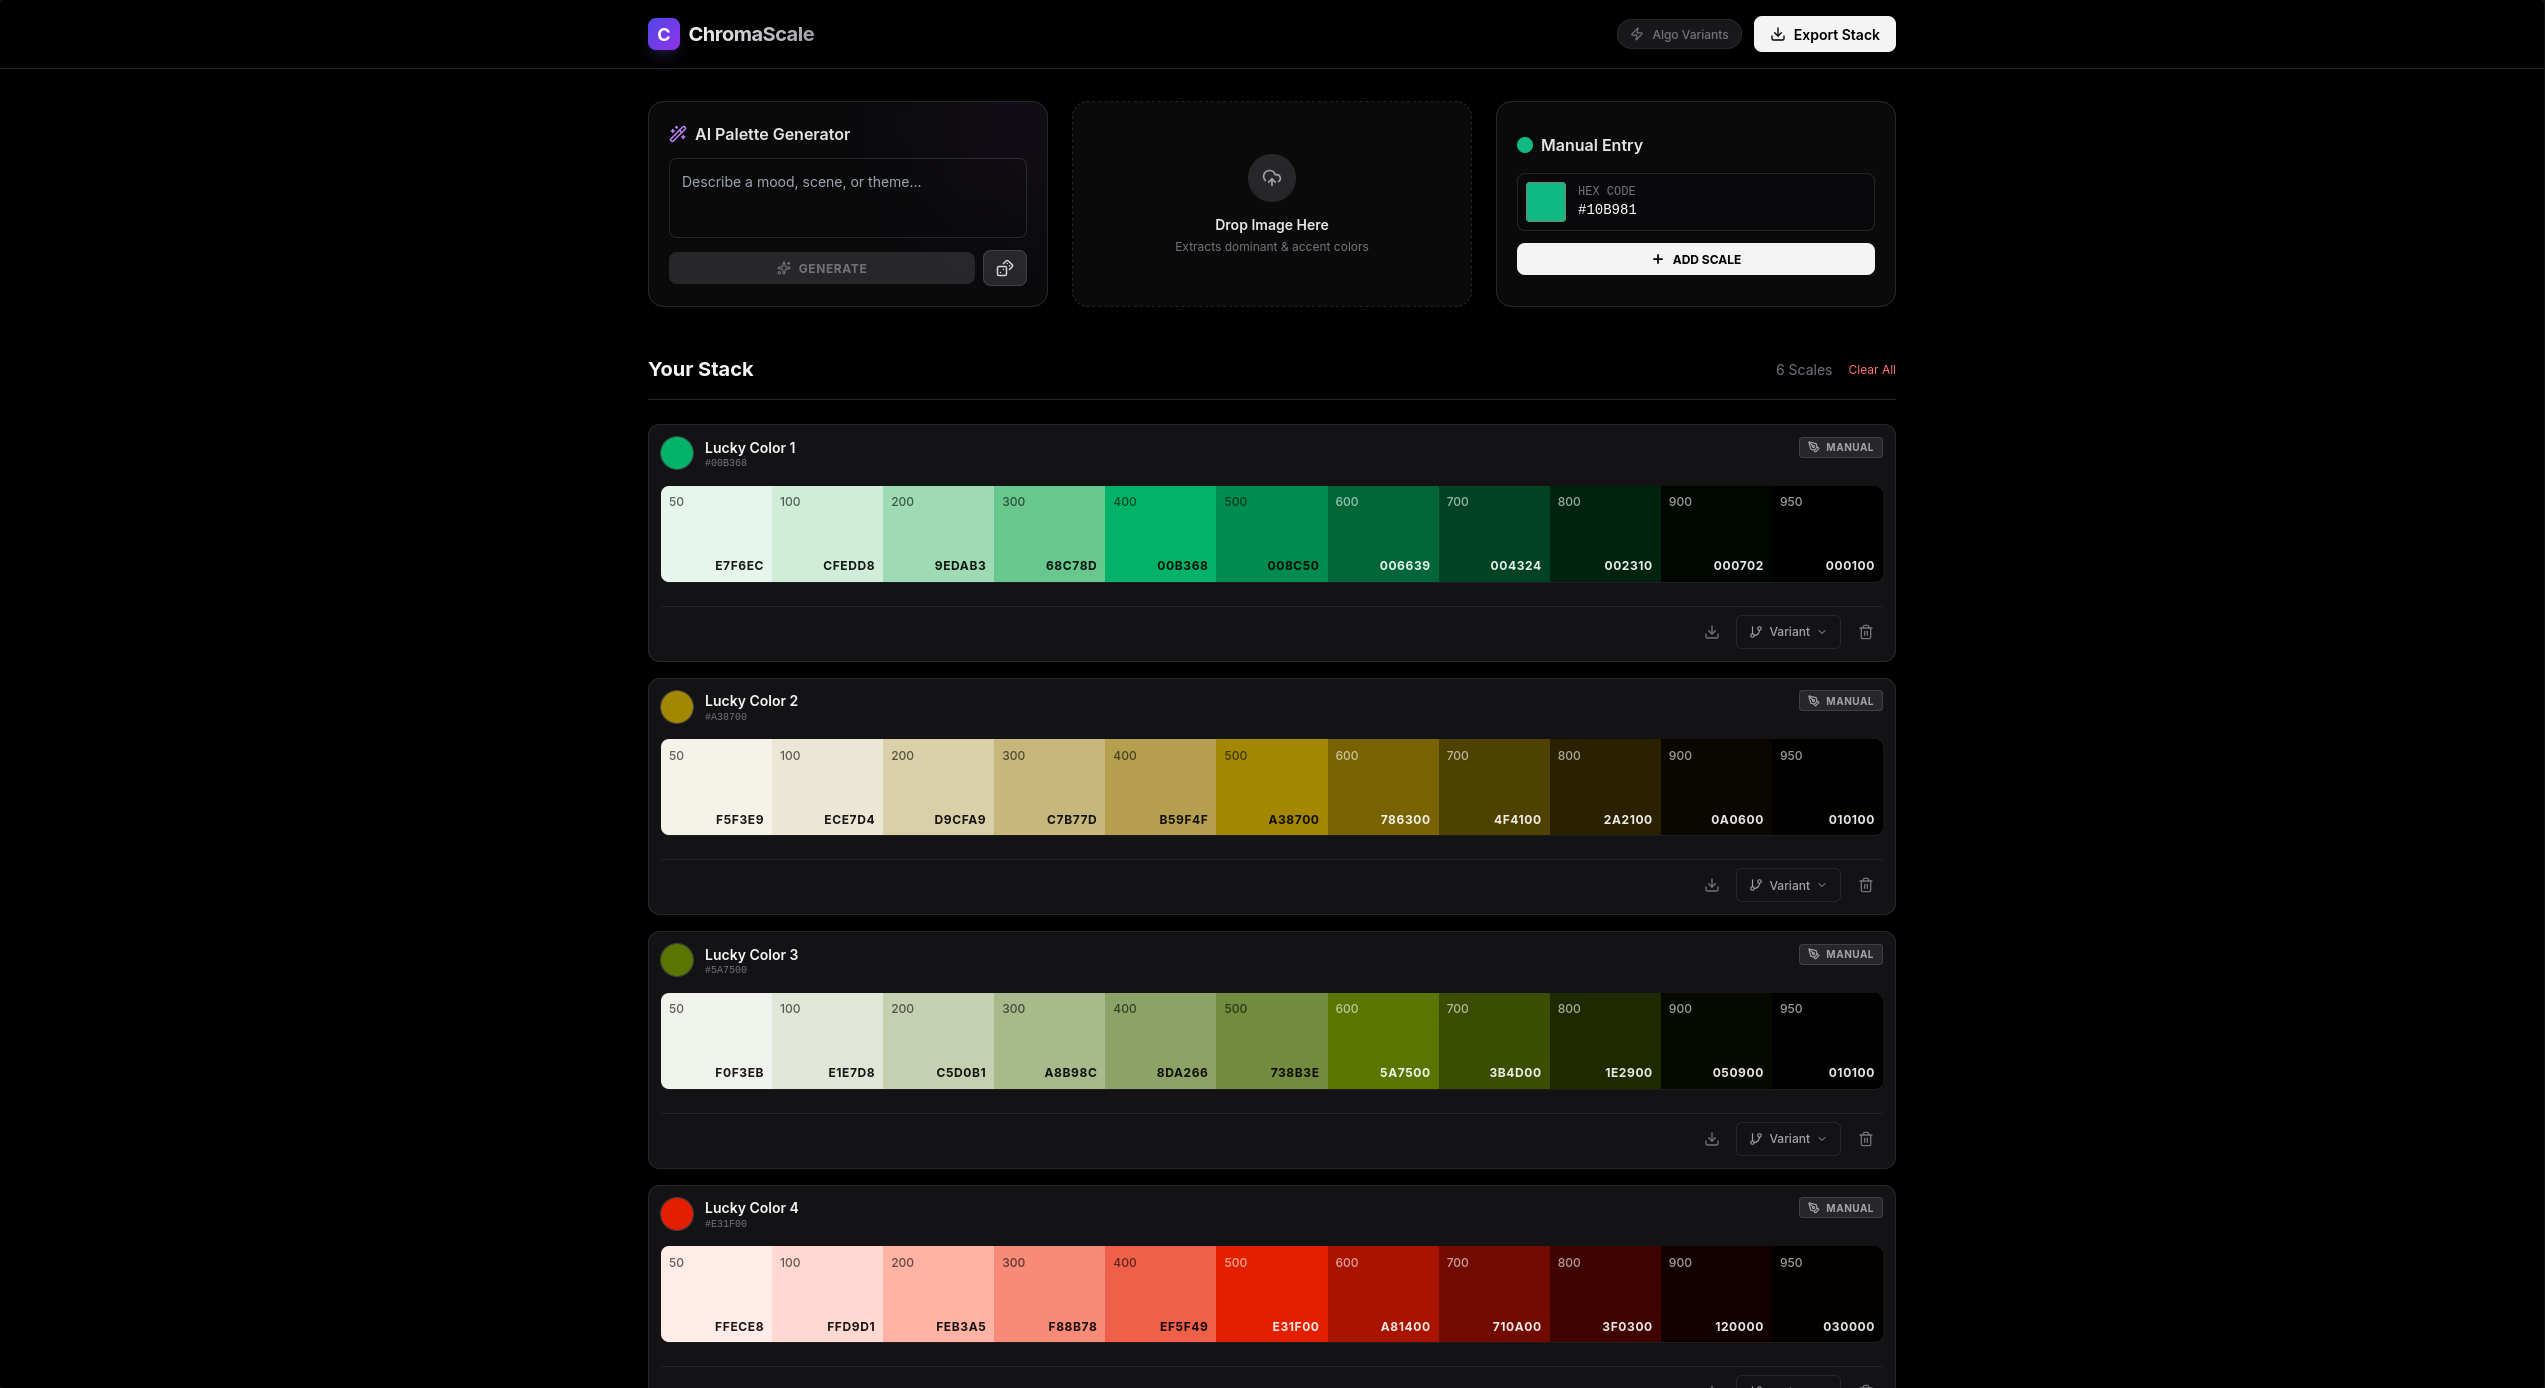
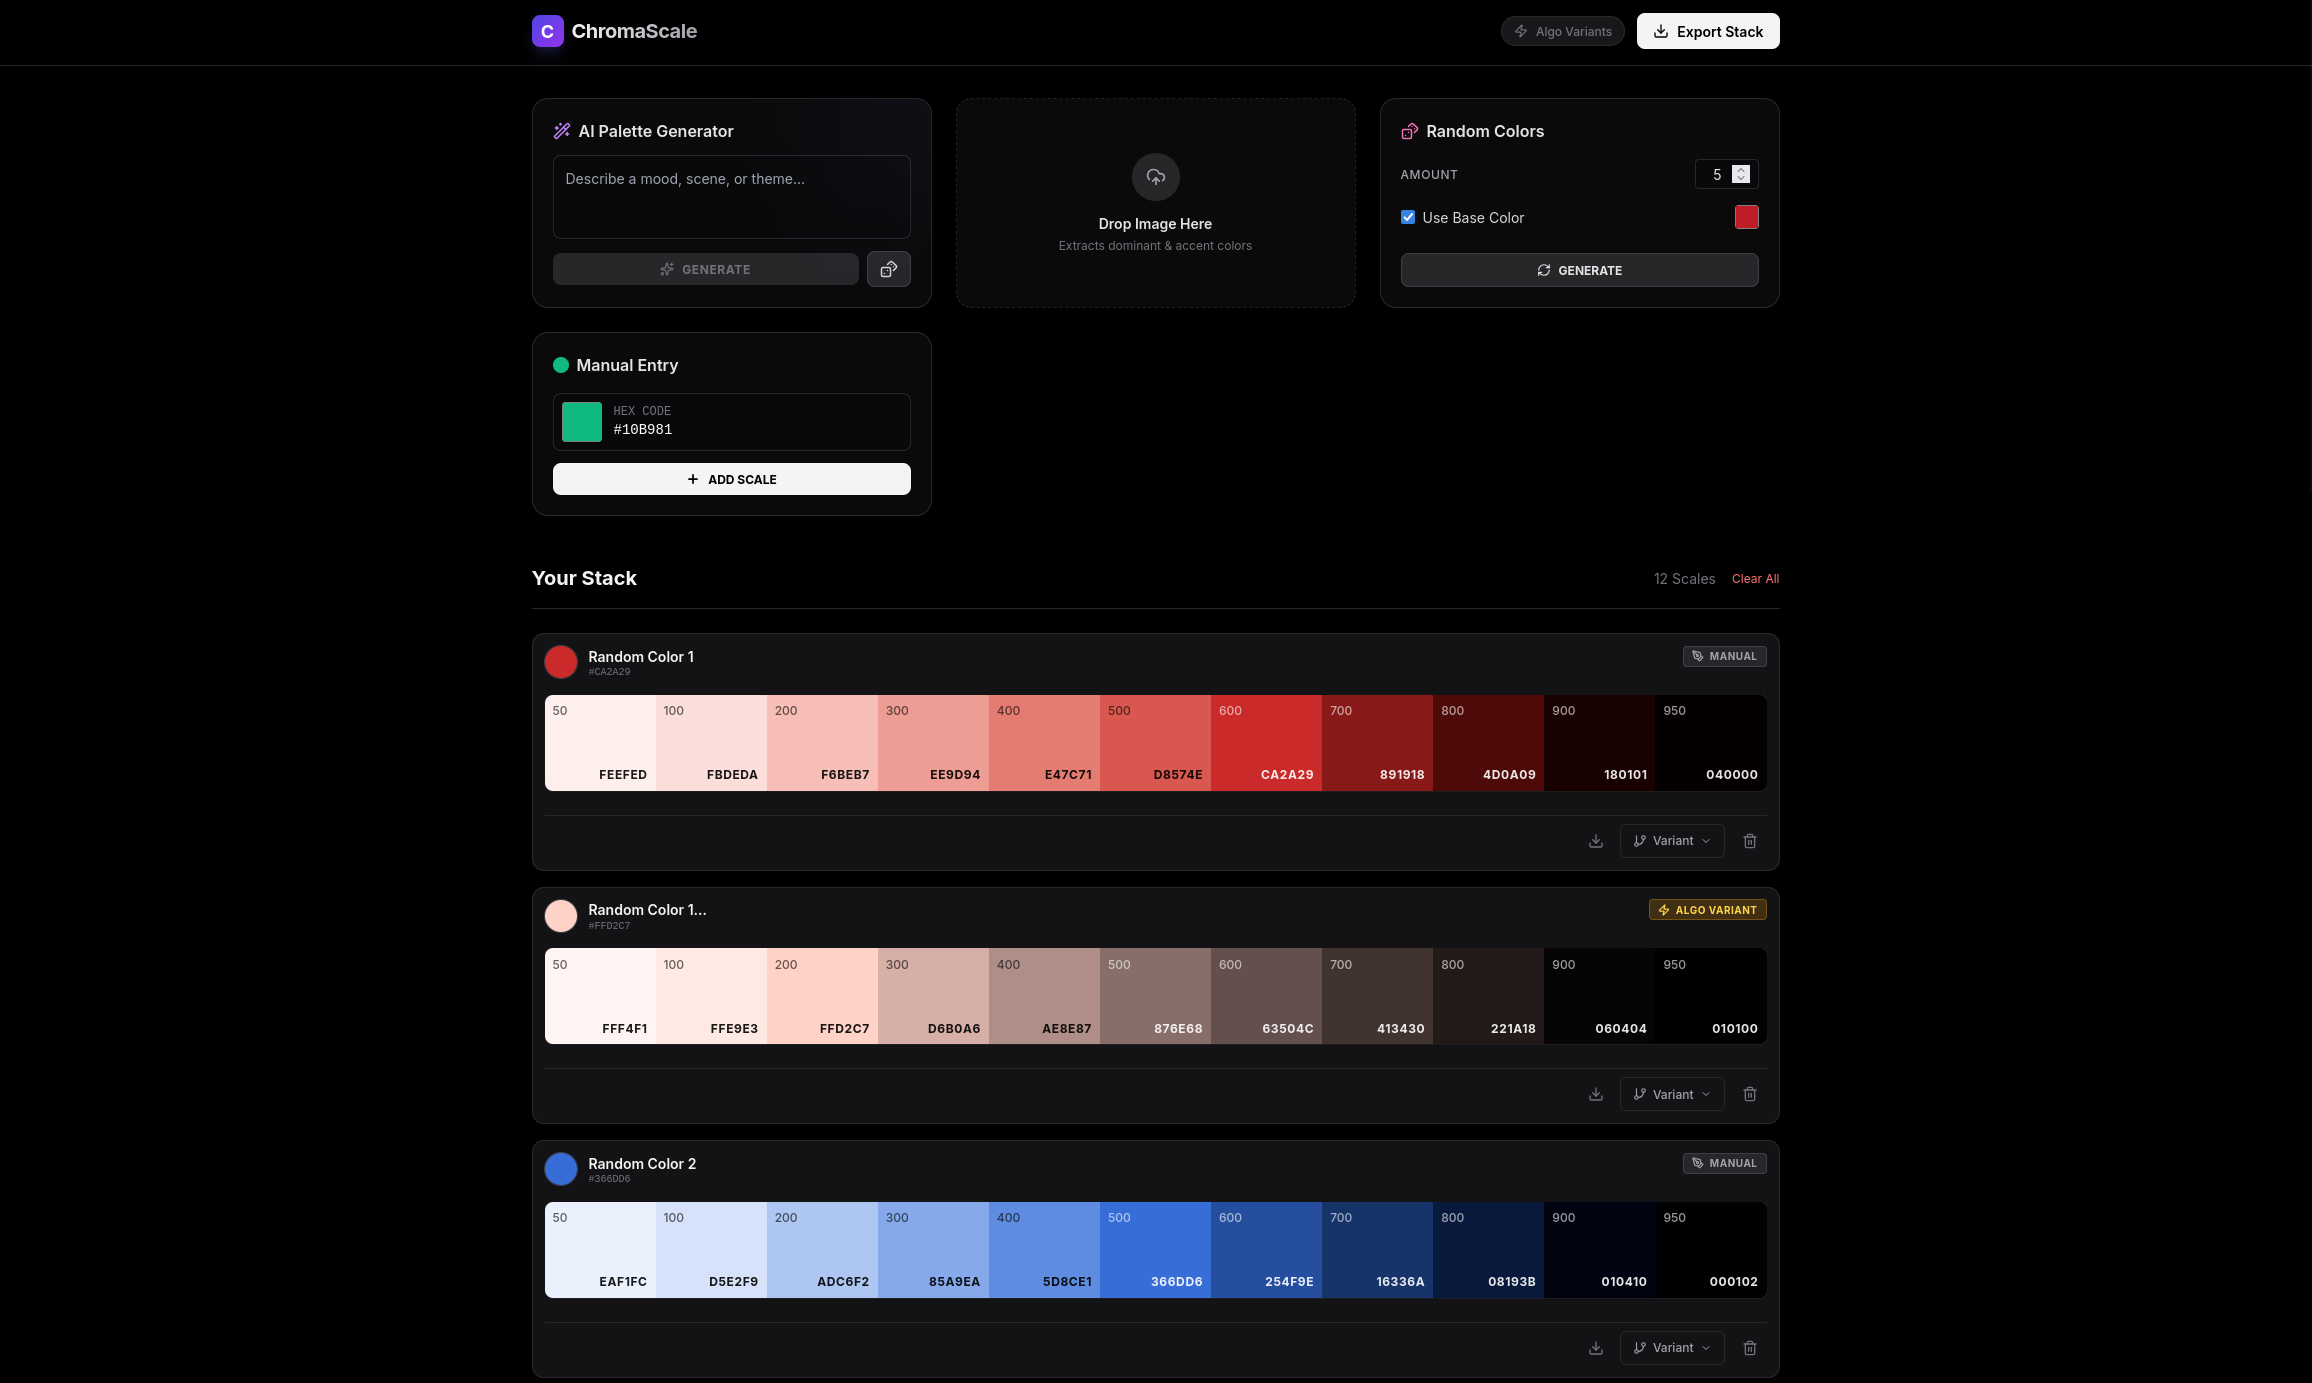
update ai features fully optional + new random color generator with option for base color

diff --git a/components/ChromaTool.tsx b/components/ChromaTool.tsx
@@ -5,8 +5,9 @@ import { formatHex, oklch } from 'culori';
 import { ColorScale, VariantType } from '../types';
 import { ColorRow } from './ColorRow';
 import { ExportModal } from './ExportModal';
-import { extractColorsFromImage, askGeminiFast, generatePaletteFromText, generateVariantWithAI } from '../services/geminiService';
+import { extractColorsFromImage, askGeminiFast, generatePaletteFromText, generateVariantWithAI, isAiAvailable } from '../services/geminiService';
 import { Plus, Wand2, Image as ImageIcon, Loader2, Sparkles, Terminal, UploadCloud, X, Download, Bot, Zap, Undo2, Dices } from 'lucide-react';
+import { RandomColorPanel } from './RandomColorPanel';
 
 export const ChromaTool: React.FC = () => {
   const [scales, setScales] = useState<ColorScale[]>([
@@ -102,9 +103,9 @@ export const ChromaTool: React.FC = () => {
       const parentScale = scales[parentIndex];
       let newBase: string;
       let newName: string;
-      const source = useAiForVariants ? 'ai-variant' : 'algo-variant';
+      const source = (useAiForVariants && isAiAvailable) ? 'ai-variant' : 'algo-variant';
 
-      if (useAiForVariants) {
+      if (useAiForVariants && isAiAvailable) {
         const aiResult = await generateVariantWithAI(parentScale.baseColor, type);
         newBase = aiResult.hex;
         newName = aiResult.name;
@@ -134,6 +135,11 @@ export const ChromaTool: React.FC = () => {
   const handleExportSingle = (scale: ColorScale) => {
     setExportScales([scale]);
     setShowExport(true);
+  };
+
+  const handleRandomGenerate = (colors: string[]) => {
+      const newScales = colors.map((hex, i) => generateScale(hex, `Random Color ${i + 1}`, 'manual'));
+      setScales(prev => [...newScales, ...prev]);
   };
 
   const handleLucky = () => {
@@ -241,6 +247,7 @@ export const ChromaTool: React.FC = () => {
 
           <div className="flex items-center gap-3">
              {/* AI Mode Toggle */}
+             {isAiAvailable && (
              <button 
                onClick={() => setUseAiForVariants(!useAiForVariants)}
                className={`hidden md:flex items-center gap-2 px-3 py-1.5 rounded-full text-xs font-medium border transition-all ${useAiForVariants ? 'bg-indigo-500/10 border-indigo-500/50 text-indigo-300' : 'bg-zinc-900 border-zinc-800 text-zinc-500 hover:border-zinc-700'}`}
@@ -249,6 +256,7 @@ export const ChromaTool: React.FC = () => {
                {useAiForVariants ? <Bot size={14} /> : <Zap size={14} />}
                {useAiForVariants ? 'AI Variants On' : 'Algo Variants'}
              </button>
+             )}
 
              {/* Export Button */}
              <button 
@@ -268,6 +276,7 @@ export const ChromaTool: React.FC = () => {
         <section className="mb-12 grid grid-cols-1 md:grid-cols-2 lg:grid-cols-3 gap-6">
             
             {/* Card 1: AI Generator */}
+            {isAiAvailable && (
             <div className="bg-zinc-900/40 border border-zinc-800 rounded-2xl p-5 relative overflow-hidden group hover:border-purple-500/30 transition-colors flex flex-col">
                 <div className="absolute -top-10 -right-10 w-32 h-32 bg-purple-500/10 blur-3xl rounded-full pointer-events-none"></div>
                 <h2 className="text-base font-semibold mb-3 flex items-center gap-2 text-zinc-200">
@@ -298,8 +307,10 @@ export const ChromaTool: React.FC = () => {
                     </button>
                 </div>
             </div>
+            )}
 
             {/* Card 2: Image Extraction */}
+            {isAiAvailable && (
             <div 
                 {...getRootProps()}
                 className={`
@@ -314,6 +325,10 @@ export const ChromaTool: React.FC = () => {
                 <h2 className="text-sm font-semibold text-zinc-200">Drop Image Here</h2>
                 <p className="text-xs text-zinc-500 mt-1">Extracts dominant & accent colors</p>
             </div>
+            )}
+
+            {/* Random Color Panel */}
+            <RandomColorPanel onGenerate={handleRandomGenerate} />
 
             {/* Card 3: Manual Entry */}
             <div className="bg-zinc-900/40 border border-zinc-800 rounded-2xl p-5 flex flex-col justify-center gap-4 hover:border-zinc-700 transition-colors">

diff --git a/components/RandomColorPanel.tsx b/components/RandomColorPanel.tsx
@@ -1,0 +1,76 @@
+import React, { useState } from 'react';
+import { Dices, Plus, RefreshCw } from 'lucide-react';
+import { generateRandomColors } from '../utils/colorEngine';
+
+interface RandomColorPanelProps {
+  onGenerate: (colors: string[]) => void;
+}
+
+export const RandomColorPanel: React.FC<RandomColorPanelProps> = ({ onGenerate }) => {
+  const [count, setCount] = useState(5);
+  const [useBaseColor, setUseBaseColor] = useState(false);
+  const [baseColor, setBaseColor] = useState('#3b82f6');
+
+  const handleGenerate = () => {
+    const colors = generateRandomColors(count, useBaseColor ? baseColor : undefined);
+    onGenerate(colors);
+  };
+
+  return (
+    <div className="bg-zinc-900/40 border border-zinc-800 rounded-2xl p-5 flex flex-col gap-4 hover:border-zinc-700 transition-colors h-full">
+      <h2 className="text-base font-semibold flex items-center gap-2 text-zinc-200">
+        <Dices className="text-pink-400" size={18} />
+        Random Colors
+      </h2>
+
+      <div className="flex flex-col gap-4 flex-1">
+        {/* Count Input */}
+        <div className="flex items-center justify-between">
+            <label className="text-xs text-zinc-400 font-medium uppercase tracking-wider">Amount</label>
+            <input 
+                type="number" 
+                min="1" 
+                max="20" 
+                value={count}
+                onChange={(e) => setCount(Math.max(1, Math.min(20, parseInt(e.target.value) || 5)))}
+                className="w-16 bg-zinc-950 border border-zinc-800 rounded px-2 py-1 text-sm text-center text-zinc-200 focus:border-pink-500/50 outline-none"
+            />
+        </div>
+
+        {/* Base Color Toggle */}
+        <div className="flex items-center justify-between">
+            <label className="flex items-center gap-2 cursor-pointer">
+                <input 
+                    type="checkbox" 
+                    checked={useBaseColor}
+                    onChange={(e) => setUseBaseColor(e.target.checked)}
+                    className="rounded border-zinc-700 bg-zinc-900 text-pink-500 focus:ring-pink-500/20"
+                />
+                <span className="text-sm text-zinc-300">Use Base Color</span>
+            </label>
+            
+            {useBaseColor && (
+                <div className="flex items-center gap-2">
+                    <input 
+                        type="color" 
+                        value={baseColor}
+                        onChange={(e) => setBaseColor(e.target.value)}
+                        className="w-6 h-6 rounded cursor-pointer border-none bg-transparent p-0"
+                    />
+                </div>
+            )}
+        </div>
+
+        <div className="mt-auto pt-2">
+            <button 
+                onClick={handleGenerate}
+                className="w-full py-2 bg-zinc-800 hover:bg-zinc-700 text-zinc-200 hover:text-white text-xs font-bold uppercase rounded-lg transition-colors flex items-center justify-center gap-2 border border-zinc-700"
+            >
+                <RefreshCw size={14} />
+                Generate
+            </button>
+        </div>
+      </div>
+    </div>
+  );
+};

diff --git a/services/geminiService.ts b/services/geminiService.ts
@@ -1,6 +1,9 @@
 import { GoogleGenAI, Type } from "@google/genai";
 
-const ai = new GoogleGenAI({ apiKey: process.env.API_KEY });
+const apiKey = process.env.API_KEY;
+export const isAiAvailable = !!apiKey;
+
+const ai = isAiAvailable ? new GoogleGenAI({ apiKey }) : null;
 
 // Using gemini-2.5-flash as it is more stable for JSON tasks than flash-lite
 const FAST_MODEL = 'gemini-flash-lite-latest'; // 'gemini-2.5-flash';
@@ -65,6 +68,7 @@ const cleanStringAndParseJSON = (text: string | undefined): any => {
  * Analyzes an image to extract a dominant color palette using Gemini Pro Vision.
  */
 export const extractColorsFromImage = async (base64Image: string): Promise<ColorResult[]> => {
+  if (!isAiAvailable || !ai) return [];
   try {
     // Debug list models:
     // listAvailableModels();
@@ -123,6 +127,7 @@ export const extractColorsFromImage = async (base64Image: string): Promise<Color
  * Asks Gemini for a quick color suggestion or explanation.
  */
 export const askGeminiFast = async (prompt: string): Promise<string> => {
+  if (!isAiAvailable || !ai) return "AI features are disabled (No API Key found).";
   try {
     const response = await ai.models.generateContent({
       model: FAST_MODEL,
@@ -142,6 +147,7 @@ export const askGeminiFast = async (prompt: string): Promise<string> => {
  * Asks Gemini to generate a palette based on a text description.
  */
 export const generatePaletteFromText = async (description: string): Promise<ColorResult[]> => {
+    if (!isAiAvailable || !ai) return [];
     try {
         const response = await ai.models.generateContent({
             model: FAST_MODEL,
@@ -215,6 +221,7 @@ export const generatePaletteFromText = async (description: string): Promise<Colo
  * Generates a specific variant using AI for better semantic matching.
  */
 export const generateVariantWithAI = async (baseHex: string, type: 'dark' | 'light'): Promise<ColorResult> => {
+  if (!isAiAvailable || !ai) return { name: 'AI Unavailable', hex: baseHex };
   try {
     const prompt = type === 'dark' 
       ? `Create a "Dark Mode" UI background variant of ${baseHex}. It should be dark, desaturated, and have a slight cool hue shift if appropriate.`

diff --git a/utils/colorEngine.ts b/utils/colorEngine.ts
@@ -120,3 +120,37 @@ export const getContrastColor = (hex: string): string => {
   const whiteContrast = wcagContrast(hex, '#ffffff');
   return whiteContrast >= 4.5 ? '#ffffff' : '#000000';
 };
+
+export const generateRandomColors = (count: number, baseHex?: string): string[] => {
+  const results: string[] = [];
+  
+  if (baseHex) {
+    const base = oklch(baseHex);
+    if (!base) return Array(count).fill(baseHex);
+
+    // Generate analogous/monochromatic variations around the base
+    for (let i = 0; i < count; i++) {
+      const newColor: Color = { ...base };
+      // Vary Hue slightly (+- 30 degrees)
+      if (newColor.h !== undefined) {
+        newColor.h = (newColor.h + (Math.random() * 60 - 30)) % 360;
+      }
+      // Vary Lightness (+- 0.1) but keep within reasonable bounds
+      newColor.l = Math.max(0.3, Math.min(0.9, newColor.l + (Math.random() * 0.2 - 0.1)));
+      // Vary Chroma (+- 0.05)
+      newColor.c = Math.max(0.05, Math.min(0.3, (newColor.c || 0) + (Math.random() * 0.1 - 0.05)));
+      
+      results.push(formatHex(newColor));
+    }
+  } else {
+    // Completely random
+    for (let i = 0; i < count; i++) {
+      const l = 0.5 + Math.random() * 0.3; // 0.5 - 0.8
+      const c = 0.1 + Math.random() * 0.2; // 0.1 - 0.3
+      const h = Math.random() * 360;
+      results.push(formatHex({ mode: 'oklch', l, c, h }));
+    }
+  }
+  
+  return results;
+};

diff --git a/README.md b/README.md
@@ -65,10 +65,11 @@
 ```text
 src/
 ├── components/       # UI Components
-│   ├── ChromaTool.tsx    # Main App Logic
-│   ├── ColorRow.tsx      # Individual Scale Row
-│   ├── ColorSwatch.tsx   # Single Color Block
-│   └── ExportModal.tsx   # Code Export UI
+│   ├── ChromaTool.tsx      # Main App Logic
+│   ├── ColorRow.tsx        # Individual Scale Row
+│   ├── ColorSwatch.tsx     # Single Color Block
+│   ├── ExportModal.tsx     # Code Export UI
+│   └── RandomColorPanel.tsx   # Random Color Generation
 ├── services/
 │   └── geminiService.ts  # AI Integration (Text & Vision)
 ├── utils/
